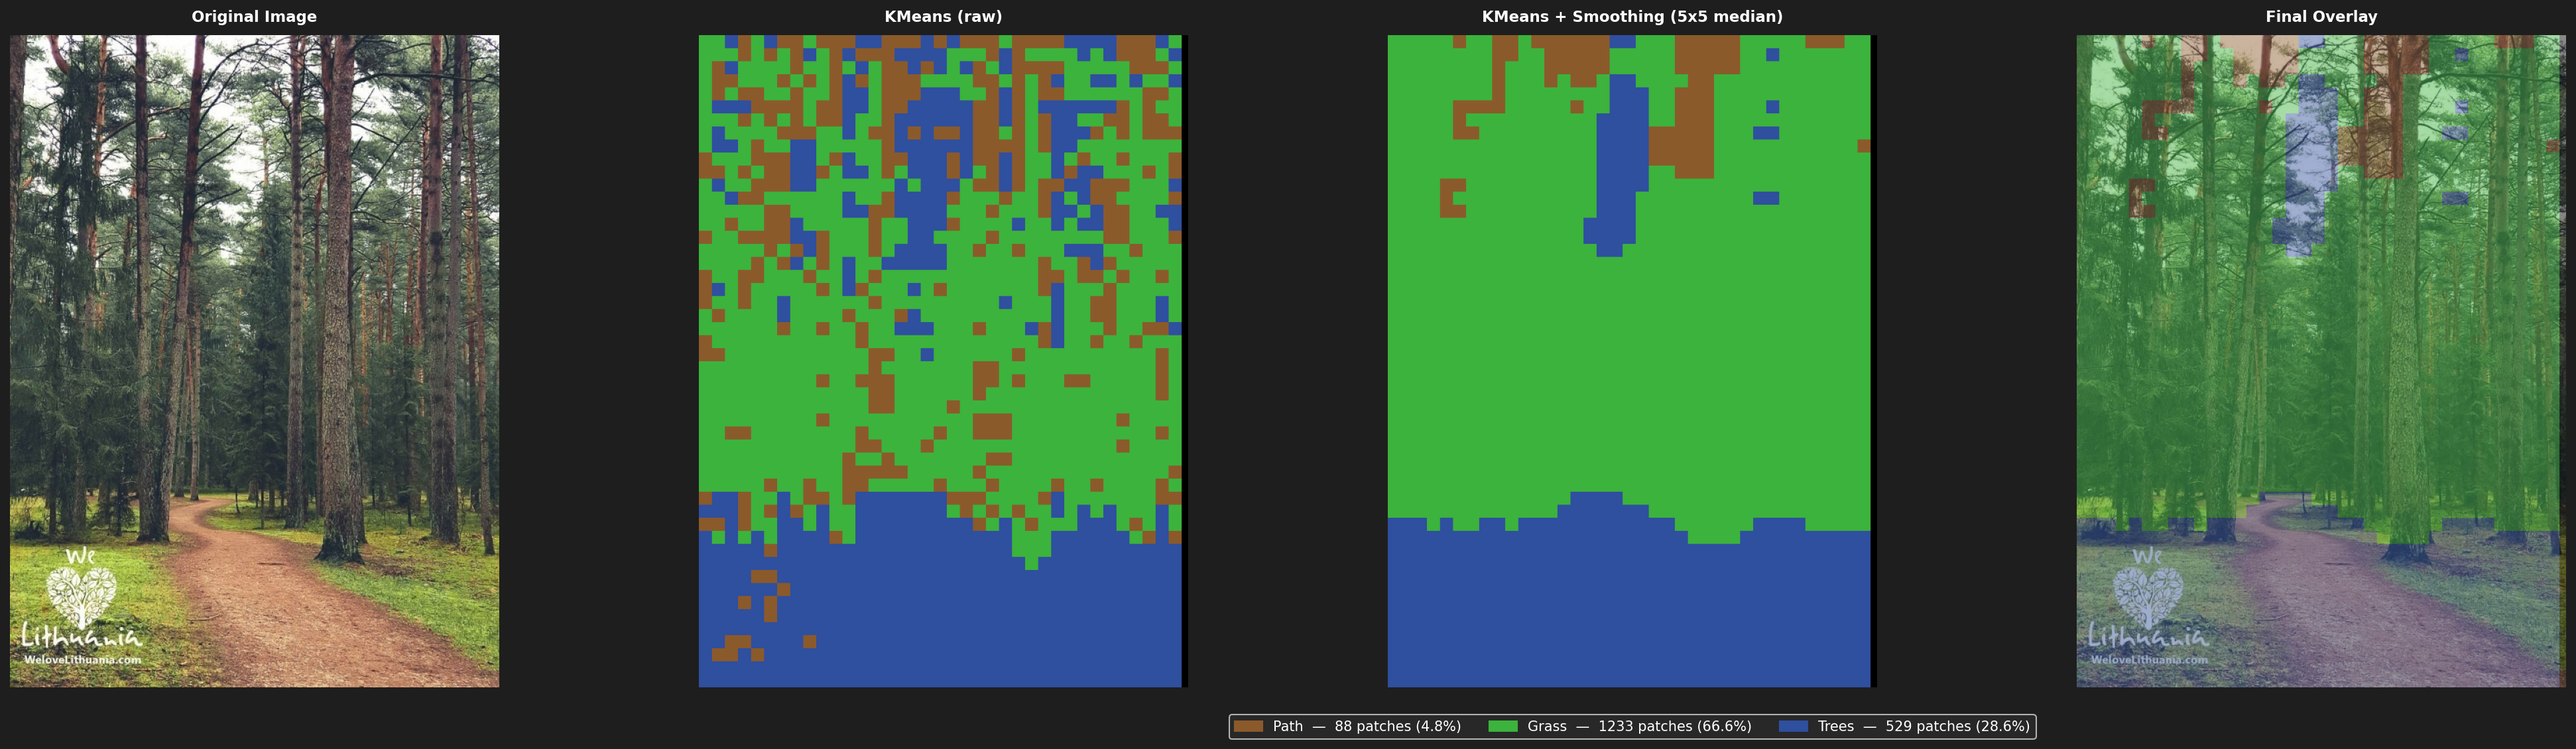
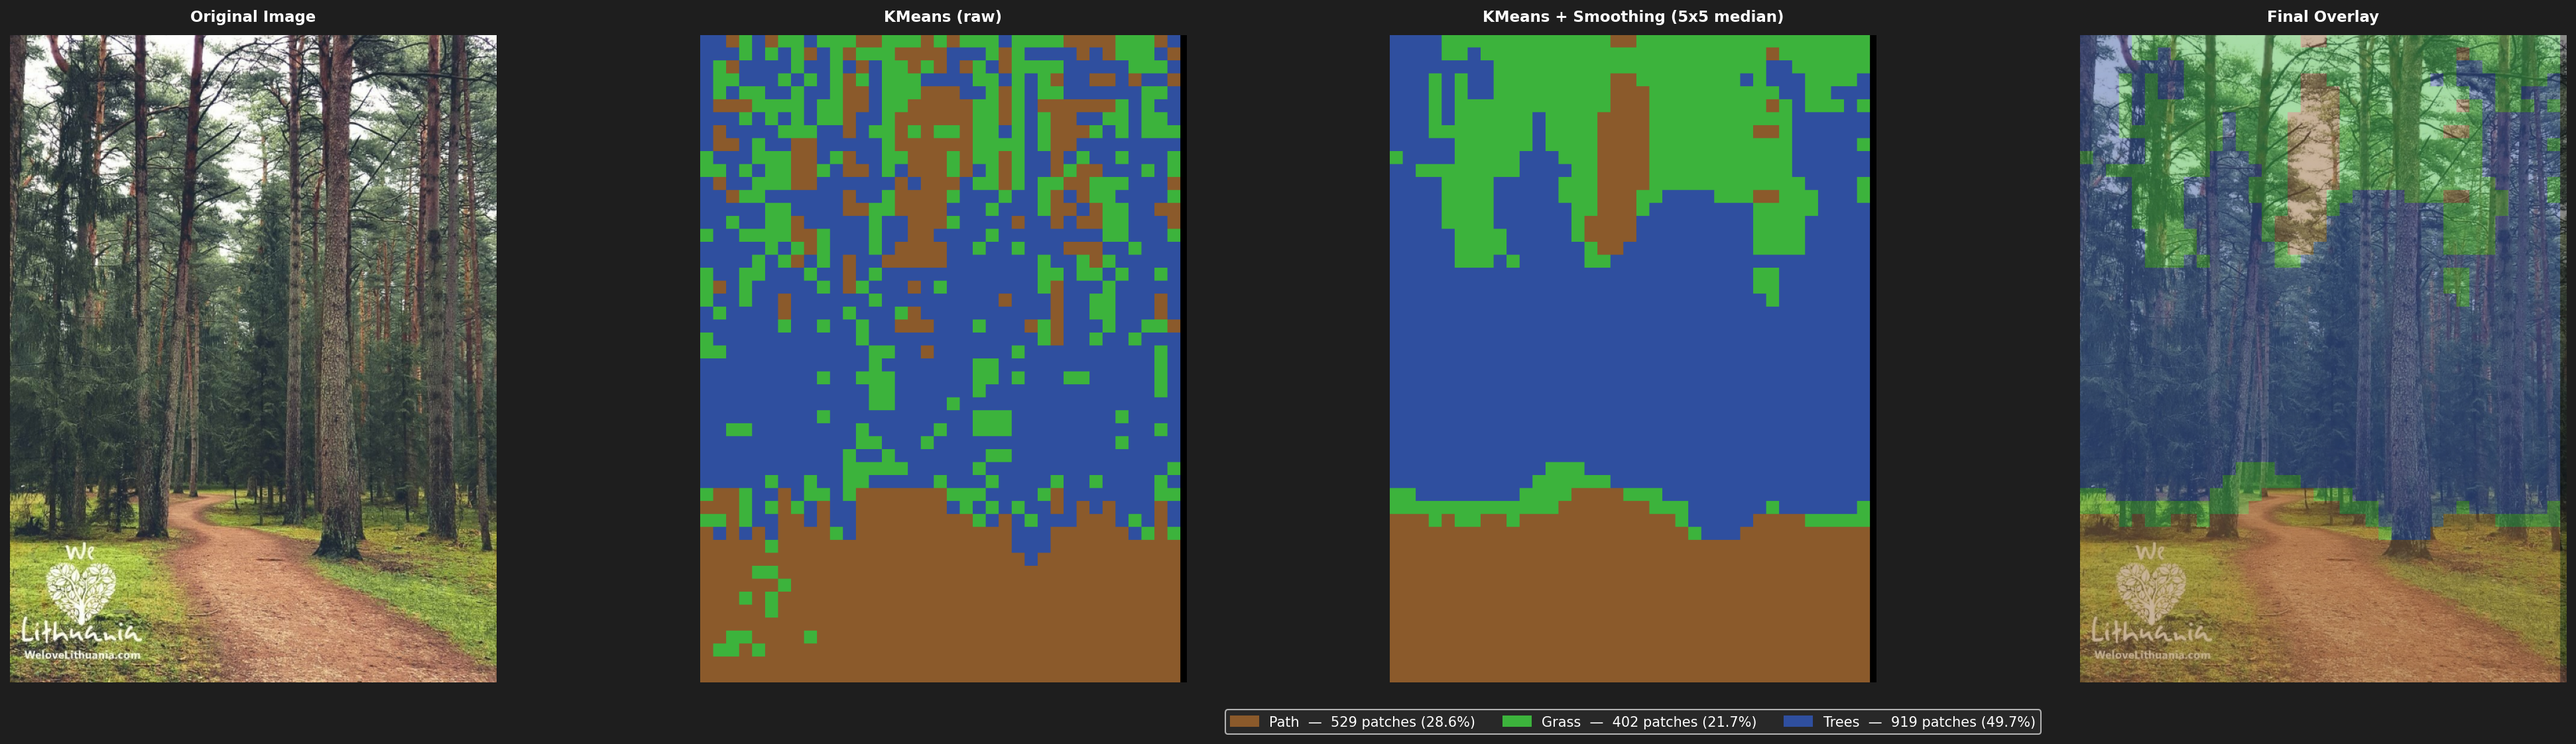
Step 5: Auto-remap clusters to semantic labels using HSV centroids

diff --git a/main.py b/main.py
@@ -14,17 +14,18 @@ from src.hog_features  import (
     compute_color_features, extract_bgr_patches, get_feature_dim,
 )
 from src.segmentation  import (
-    run_kmeans, build_label_map, smooth_label_map,
+    run_kmeans, auto_remap_clusters,
+    build_label_map, smooth_label_map,
     labels_to_color_map, CLUSTER_NAMES, CLUSTER_COLORS,
 )
 from src.visualization import overlay_segmentation, save_segmentation_figure
 
 # ── Config ────────────────────────────────────────────────────────────────────
-IMAGE_PATH = "images/forest_path.jpg"
+IMAGE_PATH  = "images/forest_path.jpg"
 PATCH_SIZE  = 16
 STRIDE      = 16
 N_CLUSTERS  = 3
-SMOOTH_SIZE = 5      # median filter kernel — higher = smoother regions
+SMOOTH_SIZE = 5
 OUTPUT_DIR  = "output"
 os.makedirs(OUTPUT_DIR, exist_ok=True)
 
@@ -46,7 +47,6 @@ def main():
     print(f"[Step 2] Grid              : {n_rows} rows x {n_cols} cols")
     print(f"[Step 2] Total patches     : {len(patches_gray)}")
 
-    # Patch grid preview
     img_preview = img_bgr.copy()
     for (row, col) in positions:
         cv2.rectangle(img_preview, (col, row),
@@ -58,16 +58,14 @@ def main():
     hog_features   = compute_hog_features(patches_gray)
 
     print(f"[Step 3] Extracting color (HSV) features...")
-    color_features = compute_color_features(patches_bgr)
+    color_features = compute_color_features(patches_bgr)  # raw, unscaled
 
-    # Combine HOG + color into one feature matrix
     feature_matrix = np.hstack([hog_features, color_features])
     hog_dim        = get_feature_dim(PATCH_SIZE)
-    total_dim      = feature_matrix.shape[1]
 
     print(f"[Step 3] HOG dim           : {hog_dim}")
     print(f"[Step 3] Color dim         : {color_features.shape[1]}")
-    print(f"[Step 3] Combined dim      : {total_dim}")
+    print(f"[Step 3] Combined dim      : {feature_matrix.shape[1]}")
     print(f"[Step 3] Feature matrix    : {feature_matrix.shape}")
 
     # HOG sample visualisation
@@ -75,7 +73,7 @@ def main():
     fig, axes = plt.subplots(2, 8, figsize=(18, 5))
     fig.suptitle(
         f"Step 3 — HOG Extraction  |  {PATCH_SIZE}×{PATCH_SIZE} px  |  "
-        f"HOG={hog_dim}  Color=6  Total={total_dim}",
+        f"HOG={hog_dim}  Color=6  Total={feature_matrix.shape[1]}",
         fontsize=11, fontweight="bold"
     )
     for i, idx in enumerate(sample_indices):
@@ -90,11 +88,20 @@ def main():
     plt.savefig(os.path.join(OUTPUT_DIR, "step3_hog_samples.png"), dpi=150)
     plt.close()
 
-    # ── Step 4: KMeans clustering ─────────────────────────────────────────
+    # ── Step 4: KMeans + auto semantic remapping ──────────────────────────
     print(f"\n[Step 4] Running KMeans  (k={N_CLUSTERS})...")
-    labels, kmeans, scaler = run_kmeans(feature_matrix, n_clusters=N_CLUSTERS)
+    labels_raw, kmeans, scaler = run_kmeans(feature_matrix, n_clusters=N_CLUSTERS)
 
-    print(f"[Step 4] Clustering done.")
+    print(f"[Step 4] Raw cluster distribution:")
+    for i in range(N_CLUSTERS):
+        count = int(np.sum(labels_raw == i))
+        print(f"         Cluster {i}  →  {count:4d} patches  ({count/len(labels_raw)*100:.1f}%)")
+
+    # ── Auto-remap to semantic labels ─────────────────────────────────────
+    print(f"\n[Step 4] Auto-remapping clusters to semantic labels...")
+    labels = auto_remap_clusters(labels_raw, color_features, n_clusters=N_CLUSTERS)
+
+    print(f"[Step 4] Semantic distribution (after remap):")
     for i in range(N_CLUSTERS):
         count = int(np.sum(labels == i))
         pct   = count / len(labels) * 100
@@ -105,10 +112,10 @@ def main():
 
     # ── Step 5: Smoothing + final visualization ───────────────────────────
     print(f"\n[Step 5] Applying spatial smoothing (median {SMOOTH_SIZE}×{SMOOTH_SIZE})...")
-    label_map_smooth  = smooth_label_map(label_map, size=SMOOTH_SIZE)
+    label_map_smooth   = smooth_label_map(label_map, size=SMOOTH_SIZE)
     labels_smooth_flat = label_map_smooth.flatten()
 
-    print(f"[Step 5] Smoothed cluster distribution:")
+    print(f"[Step 5] Smoothed distribution:")
     for i in range(N_CLUSTERS):
         count = int(np.sum(labels_smooth_flat == i))
         pct   = count / len(labels_smooth_flat) * 100
@@ -117,7 +124,6 @@ def main():
     color_map_smooth = labels_to_color_map(label_map_smooth, PATCH_SIZE, (h, w))
     overlay          = overlay_segmentation(img_bgr, color_map_smooth, alpha=0.45)
 
-    # Save all outputs
     cv2.imwrite(os.path.join(OUTPUT_DIR, "step5_color_map_smooth.jpg"),
                 cv2.cvtColor(color_map_smooth, cv2.COLOR_RGB2BGR))
     cv2.imwrite(os.path.join(OUTPUT_DIR, "step5_overlay.jpg"), overlay)

diff --git a/src/segmentation.py b/src/segmentation.py
@@ -5,9 +5,9 @@ from scipy.ndimage import median_filter
 
 # ── Cluster visual identity ───────────────────────────────────────────────────
 CLUSTER_COLORS = [
-    [139,  90,  43],   # cluster 0 — brown       (path)
-    [ 60, 179,  60],   # cluster 1 — green        (grass)
-    [ 47,  79, 159],   # cluster 2 — dark blue    (trees/canopy)
+    [139,  90,  43],   # 0 — brown  (Path)
+    [ 60, 179,  60],   # 1 — green  (Grass)
+    [ 47,  79, 159],   # 2 — blue   (Trees/Canopy)
 ]
 CLUSTER_NAMES = ["Path", "Grass", "Trees"]
 
@@ -19,14 +19,7 @@ def normalize_features(features: np.ndarray):
 
 
 def run_kmeans(features: np.ndarray, n_clusters: int = 3, random_state: int = 42):
-    """
-    Normalize + KMeans cluster HOG+color features.
-
-    Returns:
-        labels : (n_patches,) cluster ids
-        kmeans : fitted KMeans
-        scaler : fitted StandardScaler
-    """
+    """Normalize + KMeans cluster combined HOG+color features."""
     features_scaled, scaler = normalize_features(features)
     kmeans = KMeans(
         n_clusters=n_clusters,
@@ -38,17 +31,63 @@ def run_kmeans(features: np.ndarray, n_clusters: int = 3, random_state: int = 42
     return labels, kmeans, scaler
 
 
-def smooth_label_map(label_map: np.ndarray, size: int = 5) -> np.ndarray:
+def auto_remap_clusters(
+    labels: np.ndarray,
+    color_features_raw: np.ndarray,
+    n_clusters: int = 3,
+) -> np.ndarray:
     """
-    Apply median filter to 2D label map to remove noisy isolated patches.
+    Remap KMeans cluster IDs → correct semantic labels:
+        0 = Path  (brownish — low H in OpenCV HSV 0-180 scale)
+        1 = Grass (greenish — medium-high H, brighter)
+        2 = Trees (dark canopy — lowest mean V/brightness)
+
+    Strategy:
+        Step 1 → darkest cluster (lowest mean V) → Trees
+        Step 2 → among remaining: lowest mean H (warmest/brownish) → Path
+        Step 3 → remaining → Grass
 
     Args:
-        label_map : (n_rows, n_cols) cluster labels
-        size      : filter kernel size — larger = smoother regions
-
+        labels            : raw KMeans labels (n_patches,)
+        color_features_raw: unscaled HSV features (n_patches, 6)
+                            cols: [mean_H, mean_S, mean_V, std_H, std_S, std_V]
     Returns:
-        smoothed label map (same shape)
+        new_labels : semantically corrected label array
     """
+    stats = {}
+    for i in range(n_clusters):
+        mask     = labels == i
+        stats[i] = {
+            'H': float(color_features_raw[mask, 0].mean()),
+            'S': float(color_features_raw[mask, 1].mean()),
+            'V': float(color_features_raw[mask, 2].mean()),
+        }
+
+    print("\n    [Auto-remap] Raw cluster HSV centroids:")
+    for i, s in stats.items():
+        print(f"      Cluster {i}: H={s['H']:5.1f}  "
+              f"S={s['S']:5.1f}  V={s['V']:5.1f}")
+
+    # Step 1 — darkest (lowest V) → Trees
+    trees_id  = min(stats, key=lambda i: stats[i]['V'])
+
+    # Step 2 — among remaining, most brownish (lowest H) → Path
+    remaining = [c for c in range(n_clusters) if c != trees_id]
+    path_id   = min(remaining, key=lambda i: stats[i]['H'])
+
+    # Step 3 — leftover → Grass
+    grass_id  = [c for c in remaining if c != path_id][0]
+
+    remap = {path_id: 0, grass_id: 1, trees_id: 2}
+    print(f"    [Auto-remap] Cluster {path_id} → Path  |  "
+          f"Cluster {grass_id} → Grass  |  "
+          f"Cluster {trees_id} → Trees\n")
+
+    return np.vectorize(remap.get)(labels)
+
+
+def smooth_label_map(label_map: np.ndarray, size: int = 5) -> np.ndarray:
+    """Median filter on 2D label grid to remove noisy isolated patches."""
     return median_filter(label_map, size=size).astype(np.int32)
 
 
@@ -62,12 +101,7 @@ def labels_to_color_map(
     patch_size: int,
     img_shape: tuple,
 ) -> np.ndarray:
-    """
-    Convert 2D label grid → full-resolution RGB segmentation image.
-
-    Returns:
-        color_map : (H, W, 3) uint8 RGB image
-    """
+    """Convert 2D label grid → full-resolution RGB segmentation image."""
     H, W           = img_shape
     n_rows, n_cols = label_map.shape
     color_map      = np.zeros((H, W, 3), dtype=np.uint8)
